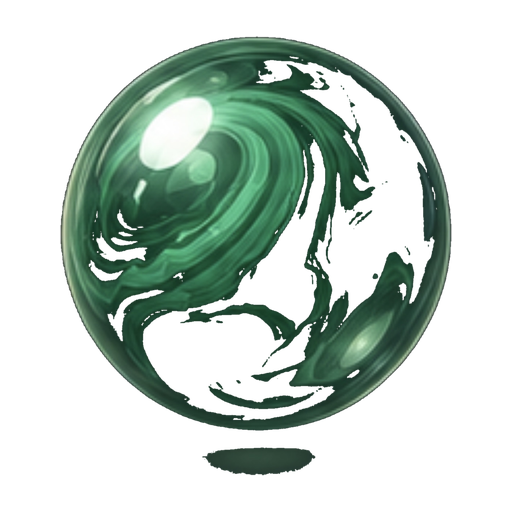
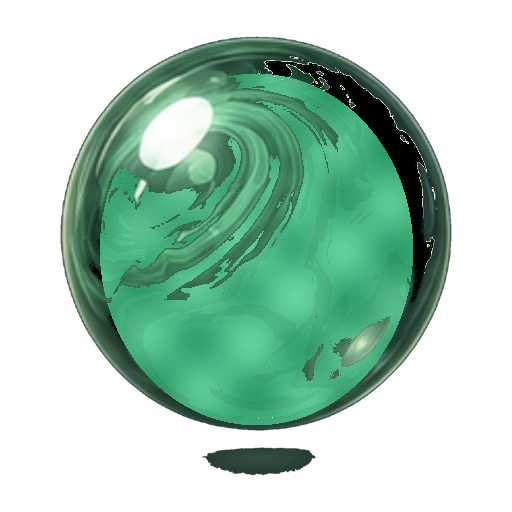
Force le rafraichissement des skins Plinko

Changed region(s): [[0.1562, 0.0938, 0.8438, 0.8438]]

diff --git a/src/App.tsx b/src/App.tsx
@@ -281,6 +281,7 @@ const PLINKO_BALL_IMAGES: Partial<Record<string, string>> = {
   "plinko-ruby": plinkoRubyImage,
   "plinko-storm": plinkoStormImage,
 };
+const PLINKO_BALL_IMAGE_VERSION = "plinko-skins-2026-05-20";
 const PROFILE_PHOTO_PRESETS = [
   "",
   "https://api.dicebear.com/9.x/identicon/svg?seed=spade",
@@ -298,7 +299,8 @@ const RARITY_SORT_ORDER: Record<SkinRarity, number> = {
 const plinkoBallImageCache = new Map<string, { image: HTMLImageElement; loaded: boolean }>();
 
 function getPlinkoBallImageSource(id: string) {
-  return PLINKO_BALL_IMAGES[id] ?? "";
+  const source = PLINKO_BALL_IMAGES[id] ?? "";
+  return source ? `${source}?v=${PLINKO_BALL_IMAGE_VERSION}` : "";
 }
 
 function getLoadedPlinkoBallImage(id: string) {
